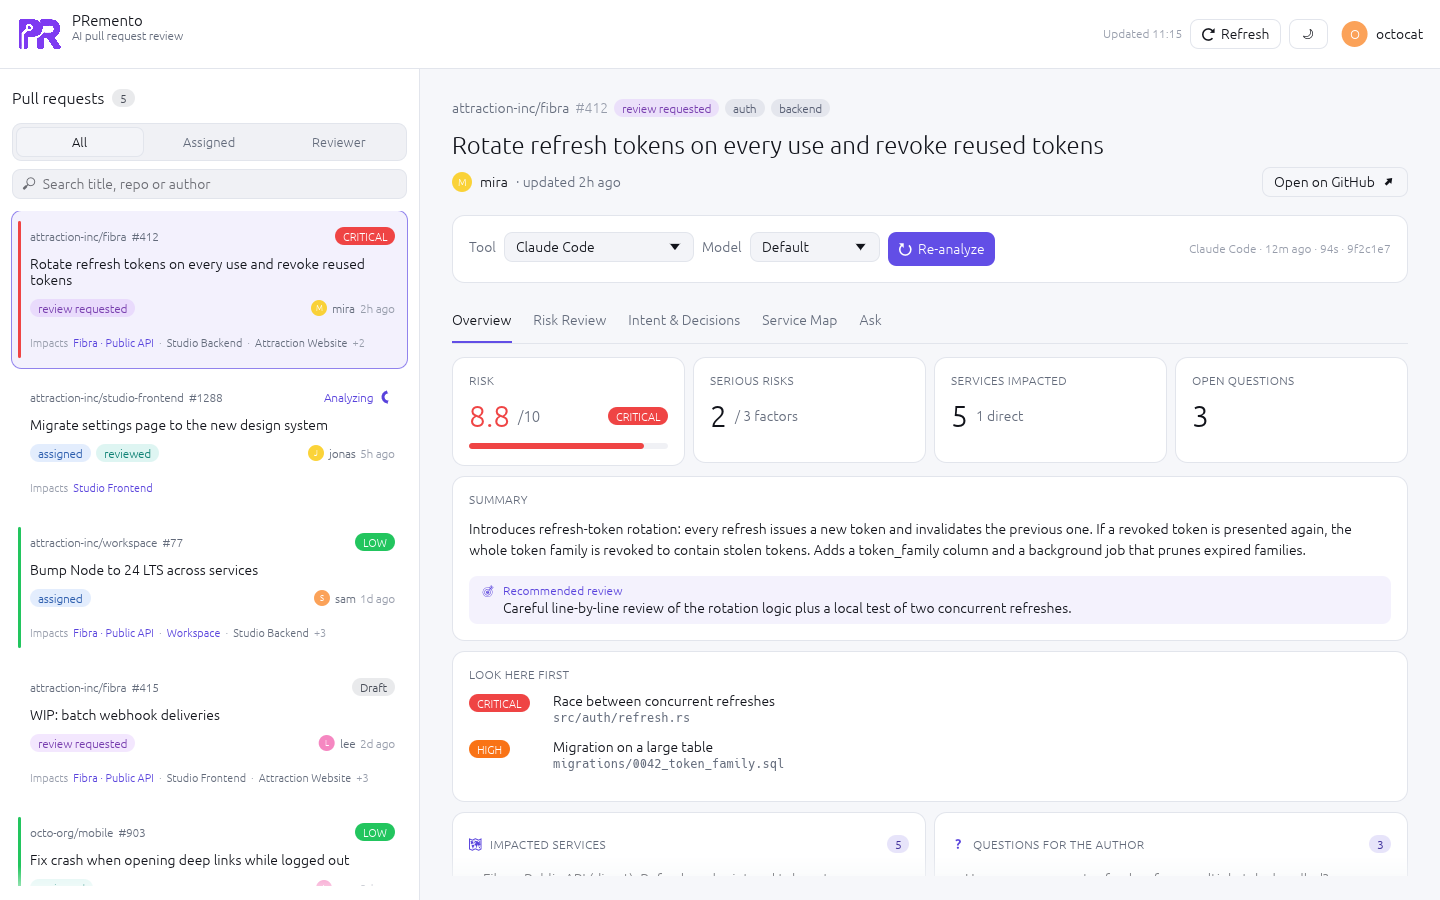
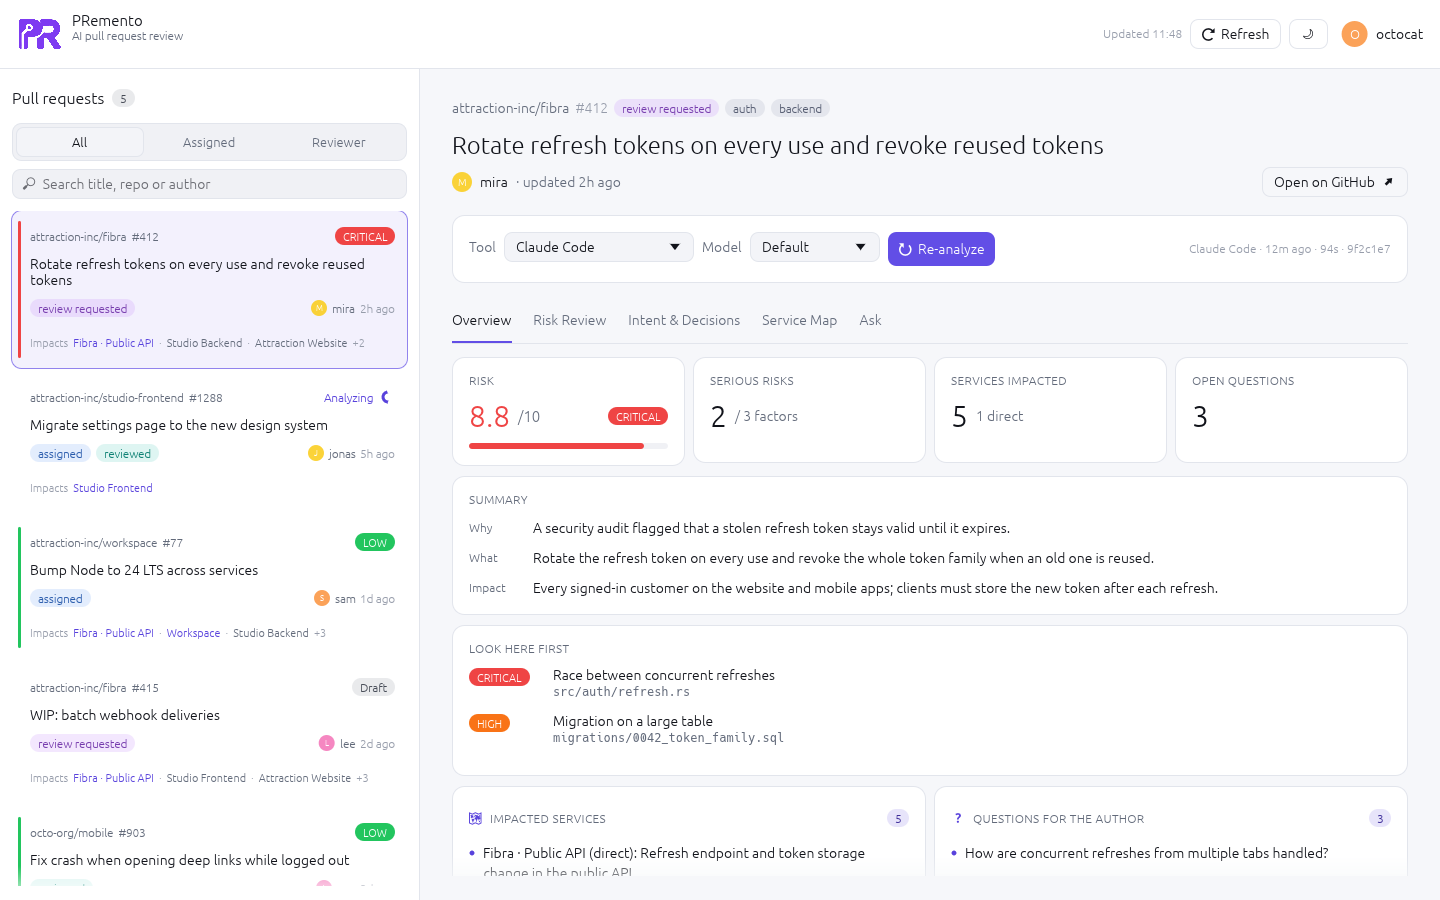
chore: update 14 files
- modify README.md (+2 -2)
- modify screenshots/intent.png
- modify screenshots/overview-dark.png
- modify screenshots/overview-light.png
- modify screenshots/risk-review.png
- modify app/demo_analysis.json (+9 -10)
- modify analysis/model.rs (+20 -3)
- modify analysis/prompt.rs (+32 -18)
- modify views/overview.rs (+16 -6)
- modify views/risk.rs (+35 -43)
- modify ask/session.rs (+1 -1)
- modify service_map/graph.rs (+7 -0)
- … and 2 more

diff --git a/src/features/analysis/prompt.rs b/src/features/analysis/prompt.rs
@@ -5,45 +5,46 @@ use anyhow::{Context, Result, anyhow};
 use super::model::Analysis;
 
 const SCHEMA_CORE: &str = r#"{
-  "summary": "2-4 sentence plain-language summary of what this PR does",
+  "brief": {
+    "why": "one sentence, max 25 words: the context or problem that motivates this PR",
+    "what": "one sentence, max 25 words: the decision taken, i.e. what the PR changes",
+    "impact": "one sentence, max 25 words: who or what is affected by the change"
+  },
   "risk": {
     "complexity": {
       "score": 0-10,
-      "reason": "how hard this change is to get right: size, logic, concurrency, state, migrations, number of moving parts"
+      "reason": "max 20 words: how hard this change is to get right"
     },
     "worst_case": {
       "tier": "cosmetic | feature | core_flow | system_wide",
-      "scenario": "the realistic worst thing that happens if this PR has a bug"
+      "scenario": "max 20 words: the realistic worst thing that happens if this PR has a bug"
     },
     "audience": {
       "facing": "customer | partner | internal | developer",
-      "reason": "who uses the code this PR changes"
+      "reason": "max 20 words: who uses the code this PR changes"
     },
-    "rationale": "why this overall risk, in terms of the three dimensions above",
-    "recommended_review_depth": "e.g. 'quick skim', 'careful line-by-line', 'needs domain expert + tests run locally'",
     "factors": [
       {
         "area": "short name of the risk (e.g. 'auth token handling')",
-        "severity": "low | medium | high | critical",
-        "description": "what could go wrong and why",
-        "files": ["paths involved"],
-        "mitigation": "what the reviewer should verify or ask for"
+        "severity": "medium | high | critical",
+        "description": "one sentence, max 25 words: what could go wrong",
+        "files": ["paths involved"]
       }
     ]
   },
   "intent": {
-    "stated_intent": "what the author says the PR does (from title/description/commits)",
-    "inferred_intent": "what the code actually appears to do",
-    "alignment": "does the code match the stated intent? call out scope creep, missing pieces or unrelated changes",
+    "stated_intent": "one sentence: what the author says the PR does (from title/description/commits)",
+    "inferred_intent": "one sentence: what the code actually appears to do",
+    "alignment": "one sentence: does the code match the stated intent? name any scope creep or missing piece",
     "decisions": [
       {
         "decision": "a design/implementation choice made in this PR",
-        "rationale": "why it was made (quote the source if explicit, otherwise say it is inferred)",
-        "alternatives": "plausible alternatives that were not chosen",
+        "rationale": "one short sentence: why it was made (say if inferred)",
+        "alternatives": "one short sentence: plausible alternatives not chosen",
         "source": "description | commit | discussion | code (inferred)"
       }
     ],
-    "open_questions": ["questions the reviewer should ask the author"]
+    "open_questions": ["one line: a question that would clarify the context or the decision"]
   },"#;
 
 const SCHEMA_IMPACT: &str = r#"
@@ -90,9 +91,10 @@ downstream consumers, data, security, performance, tests).",
         ),
     };
     format!(
-        "You are a senior staff engineer helping a teammate review a GitHub pull request.\n\
+        "You are a senior staff engineer helping a teammate quickly understand a GitHub pull request: \
+why it exists, what it decides and what it affects. This is not a code review.\n\
 Produce three analyses of the PR below:\n\
-1. Risk-Based Review: how risky is this change, which areas carry the risk, and how deep the review must be.\n\
+1. Risk: how risky is this change and which areas carry the risk.\n\
 2. Intent & Decision Log: what the PR is meant to do, whether the code matches, and the design decisions made (with rationale and alternatives).\n\
 {impact_task}\n\n\
 Rate the risk on three dimensions (the app computes the overall score from them, do not return one):\n\
@@ -105,6 +107,8 @@ can reach, not by the size of the diff: a one-line change to auth middleware is 
 - audience.facing: who is exposed. `customer` = end customers or public users; `partner` = B2B partners, distributors \
 or public API consumers; `internal` = admin, back-office or staff-only tools; `developer` = CI, build, tests, docs or \
 dev tooling only. If several apply, pick the most exposed one.\n\n\
+Be terse: short sentences, no filler, never restate the same point in several fields, respect the word limits. \
+List at most 3 risk factors (medium severity or above), 4 decisions and 3 open questions; fewer is fine.\n\
 Be specific and grounded in the diff; reference file paths and function names. Do not invent facts — if something is inferred, say so. \
 Do not run tools or modify files; everything you need is below.\n\n\
 Respond with ONLY a single JSON object (no markdown fences, no prose before or after) matching this shape:\n\
@@ -138,6 +142,16 @@ mod tests {
         let a = parse(raw).unwrap();
         assert_eq!(a.risk.level, "high");
         assert!(a.impact.breaking_changes.is_empty());
+    }
+
+    #[test]
+    fn parses_legacy_analysis_with_summary() {
+        let raw = r#"{"summary":"old","risk":{"rationale":"r","recommended_review_depth":"skim",
+            "factors":[{"area":"a","severity":"high","mitigation":"m"}]}}"#;
+        let a = parse(raw).unwrap();
+        assert_eq!(a.summary, "old");
+        assert!(a.brief.is_empty());
+        assert_eq!(a.risk.factors.len(), 1);
     }
 
     #[test]

diff --git a/src/features/analysis/views/risk.rs b/src/features/analysis/views/risk.rs
@@ -4,30 +4,19 @@ use eframe::egui::{self, Align, Layout, RichText};
 
 use crate::core::format::humanize;
 use crate::features::analysis::{Analysis, RiskReview, scoring};
-use crate::ui::blocks::{callout, code_chip};
+use crate::ui::blocks::code_chip;
 use crate::ui::theme::{pal, severity_color, severity_rank};
 use crate::ui::widgets::{accent_card, body, card, meter, muted, pill, section_title, solid_pill};
 
 pub fn risk(ui: &mut egui::Ui, a: &Analysis) {
     let p = pal(ui);
-    let c = severity_color(&a.risk.level);
     card(ui, |ui| {
-        ui.horizontal(|ui| {
-            solid_pill(ui, format!("{} RISK", a.risk.level.to_uppercase()), c);
-            ui.label(RichText::new(format!("{:.1}/10", a.risk.score)).size(18.0).strong().color(c));
-            meter(ui, a.risk.score / 10.0, c, 160.0);
-        });
-        ui.add_space(4.0);
-        body(ui, &a.risk.rationale);
-        if !a.risk.recommended_review_depth.is_empty() {
-            ui.add_space(4.0);
-            callout(ui, "🎯", "Recommended review", &a.risk.recommended_review_depth);
+        score_header(ui, &a.risk);
+        if a.risk.has_breakdown() {
+            ui.add_space(6.0);
+            risk_breakdown(ui, &a.risk);
         }
     });
-
-    if a.risk.has_breakdown() {
-        risk_breakdown(ui, &a.risk);
-    }
 
     ui.add_space(4.0);
     section_title(ui, &format!("Risk factors · {}", a.risk.factors.len()));
@@ -53,11 +42,17 @@ pub fn risk(ui: &mut egui::Ui, a: &Analysis) {
                     }
                 });
             }
-            if !f.mitigation.is_empty() {
-                callout(ui, "✔", "Verify", &f.mitigation);
-            }
         });
     }
+}
+
+fn score_header(ui: &mut egui::Ui, r: &RiskReview) {
+    let c = severity_color(&r.level);
+    ui.horizontal(|ui| {
+        solid_pill(ui, format!("{} RISK", r.level.to_uppercase()), c);
+        ui.label(RichText::new(format!("{:.1}/10", r.score)).size(18.0).strong().color(c));
+        meter(ui, r.score / 10.0, c, 160.0);
+    });
 }
 
 /// The three dimensions the risk score is computed from.
@@ -71,29 +66,26 @@ fn risk_breakdown(ui: &mut egui::Ui, r: &RiskReview) {
         ("Worst case", humanize(&r.worst_case.tier), impact, r.worst_case.scenario.as_str()),
         ("Audience", format!("{}-facing", humanize(&r.audience.facing)), exposure, r.audience.reason.as_str()),
     ];
-    card(ui, |ui| {
-        section_title(ui, "How the score is computed");
-        for (label, value, level, reason) in rows {
-            let c = severity_color(scoring::level_for(level));
-            ui.horizontal_top(|ui| {
-                ui.vertical(|ui| {
-                    ui.set_width(150.0);
-                    ui.spacing_mut().item_spacing.y = 4.0;
-                    ui.label(RichText::new(label).size(12.0).strong().color(p.muted));
-                    pill(ui, value, c);
-                    meter(ui, level / 10.0, c, 120.0);
-                });
-                ui.add(egui::Label::new(RichText::new(reason).color(p.text).line_height(Some(20.0))).wrap());
+    for (label, value, level, reason) in rows {
+        let c = severity_color(scoring::level_for(level));
+        ui.horizontal_top(|ui| {
+            ui.vertical(|ui| {
+                ui.set_width(150.0);
+                ui.spacing_mut().item_spacing.y = 3.0;
+                ui.label(RichText::new(label).size(12.0).strong().color(p.muted));
+                pill(ui, value, c);
+                meter(ui, level / 10.0, c, 120.0);
             });
-            ui.add_space(6.0);
-        }
-        ui.label(muted(
-            ui,
-            format!(
-                "Score = worst case × audience × ({:.1} + {:.1} × complexity / 10)",
-                scoring::BASE_LIKELIHOOD,
-                1.0 - scoring::BASE_LIKELIHOOD
-            ),
-        ).size(12.0));
-    });
+            ui.add(egui::Label::new(RichText::new(reason).color(p.text).line_height(Some(20.0))).wrap());
+        });
+        ui.add_space(2.0);
+    }
+    ui.label(muted(
+        ui,
+        format!(
+            "Score = worst case × audience × ({:.1} + {:.1} × complexity / 10)",
+            scoring::BASE_LIKELIHOOD,
+            1.0 - scoring::BASE_LIKELIHOOD
+        ),
+    ).size(12.0));
 }

diff --git a/src/features/analysis/views/overview.rs b/src/features/analysis/views/overview.rs
@@ -1,10 +1,10 @@
-//! Overview tab: headline numbers, summary and the riskiest areas.
+//! Overview tab: headline numbers, why/what/impact and the riskiest areas.
 
 use eframe::egui::{self, Align, Layout, RichText, vec2};
 
 use crate::features::analysis::Analysis;
 use crate::features::service_map;
-use crate::ui::blocks::{big_number, callout, list_card, stat_tile};
+use crate::ui::blocks::{big_number, list_card, stat_tile};
 use crate::ui::theme::{pal, severity_color, severity_rank};
 use crate::ui::widgets::{body, card, meter, muted, section_title, solid_pill};
 
@@ -57,10 +57,20 @@ pub fn overview(ui: &mut egui::Ui, a: &Analysis, repo: &str) {
 
     card(ui, |ui| {
         section_title(ui, "Summary");
-        body(ui, &a.summary);
-        if !a.risk.recommended_review_depth.is_empty() {
-            ui.add_space(6.0);
-            callout(ui, "🎯", "Recommended review", &a.risk.recommended_review_depth);
+        if a.brief.is_empty() {
+            body(ui, &a.summary);
+        } else {
+            for (label, text) in [("Why", &a.brief.why), ("What", &a.brief.what), ("Impact", &a.brief.impact)] {
+                if !text.is_empty() {
+                    ui.horizontal_top(|ui| {
+                        ui.allocate_ui_with_layout(vec2(56.0, 20.0), Layout::left_to_right(Align::Center), |ui| {
+                            ui.set_min_width(56.0);
+                            ui.label(RichText::new(label).size(12.0).strong().color(p.muted));
+                        });
+                        ui.add(egui::Label::new(RichText::new(text).color(p.text).line_height(Some(20.0))).wrap());
+                    });
+                }
+            }
         }
     });
 

diff --git a/src/features/analysis/model.rs b/src/features/analysis/model.rs
@@ -5,6 +5,9 @@ use serde::{Deserialize, Serialize};
 #[derive(Debug, Clone, Default, Serialize, Deserialize)]
 #[serde(default)]
 pub struct Analysis {
+    /// Why / what / impact, one line each.
+    pub brief: Brief,
+    /// Free-text summary from analyses made before `brief` existed; shown as a fallback.
     pub summary: String,
     pub risk: RiskReview,
     pub intent: IntentLog,
@@ -12,6 +15,23 @@ pub struct Analysis {
     pub impact: ImpactAnalysis,
     /// Impact on the attraction-inc service map (attraction-inc PRs).
     pub service_impact: Vec<ServiceImpact>,
+}
+
+#[derive(Debug, Clone, Default, Serialize, Deserialize)]
+#[serde(default)]
+pub struct Brief {
+    /// The context or problem behind the PR.
+    pub why: String,
+    /// The decision taken: what the PR changes.
+    pub what: String,
+    /// Who or what is affected.
+    pub impact: String,
+}
+
+impl Brief {
+    pub fn is_empty(&self) -> bool {
+        self.why.is_empty() && self.what.is_empty() && self.impact.is_empty()
+    }
 }
 
 #[derive(Debug, Clone, Default, Serialize, Deserialize)]
@@ -32,8 +52,6 @@ pub struct RiskReview {
     pub level: String,
     #[serde(deserialize_with = "lenient_number")]
     pub score: f32,
-    pub rationale: String,
-    pub recommended_review_depth: String,
     pub complexity: Complexity,
     pub worst_case: WorstCase,
     pub audience: Audience,
@@ -74,7 +92,6 @@ pub struct RiskFactor {
     pub severity: String,
     pub description: String,
     pub files: Vec<String>,
-    pub mitigation: String,
 }
 
 #[derive(Debug, Clone, Default, Serialize, Deserialize)]

diff --git a/src/ui/blocks.rs b/src/ui/blocks.rs
@@ -1,4 +1,4 @@
-//! Larger building blocks composed from the widgets: stat tiles, list cards, callouts, banners.
+//! Larger building blocks composed from the widgets: stat tiles, list cards, banners.
 
 use eframe::egui::{
     self, Align, Color32, CornerRadius, Layout, Margin, RichText, Sense, Stroke, pos2, vec2,
@@ -52,25 +52,6 @@ pub fn list_card(ui: &mut egui::Ui, icon: &str, title: &str, items: &[String], c
             });
         }
     });
-}
-
-pub fn callout(ui: &mut egui::Ui, icon: &str, title: &str, text: &str) {
-    let p = pal(ui);
-    egui::Frame::new()
-        .fill(p.accent.gamma_multiply(if ui.visuals().dark_mode { 0.12 } else { 0.07 }))
-        .corner_radius(CornerRadius::same(8))
-        .inner_margin(Margin::symmetric(12, 8))
-        .show(ui, |ui| {
-            ui.set_width(ui.available_width());
-            ui.horizontal_top(|ui| {
-                ui.label(RichText::new(icon).color(p.accent_text));
-                ui.vertical(|ui| {
-                    ui.spacing_mut().item_spacing.y = 2.0;
-                    ui.label(RichText::new(title).size(12.0).strong().color(p.accent_text));
-                    ui.add(egui::Label::new(RichText::new(text).color(p.text)).wrap());
-                });
-            });
-        });
 }
 
 pub fn code_chip(ui: &mut egui::Ui, text: &str) {

diff --git a/src/features/service_map/impact.rs b/src/features/service_map/impact.rs
@@ -1,6 +1,6 @@
 //! Which services a PR impacts, and the service map as LLM prompt text.
 
-use super::graph::{EDGES, NODES, Node, ORG};
+use super::graph::{AUDIENCE_NOTES, EDGES, NODES, Node, ORG};
 use crate::features::analysis::ServiceImpact;
 
 pub fn applies(repo: &str) -> bool {
@@ -95,6 +95,10 @@ pub fn prompt_section(repo: &str) -> String {
     s.push_str("\nCONNECTIONS (caller -> callee: what)\n");
     for e in EDGES {
         s.push_str(&format!("- {} -> {}: {}\n", e.from, e.to, e.label));
+    }
+    s.push_str("\nAUDIENCE (use for audience.facing)\n");
+    for note in AUDIENCE_NOTES {
+        s.push_str(&format!("- {note}\n"));
     }
     let own: Vec<&str> = nodes_for_repo(repo).iter().map(|n| n.id).collect();
     s.push_str(&format!(

diff --git a/src/features/service_map/graph.rs b/src/features/service_map/graph.rs
@@ -87,6 +87,13 @@ pub const NODES: &[Node] = &[
         description: "Playwright smoke tests against deployed Studios (staging & prod)" },
 ];
 
+/// Who is exposed to each part of the system; guides the LLM's `audience.facing` rating.
+pub const AUDIENCE_NOTES: &[&str] = &[
+    "Studio (frontend + backend) runs one tenant per brand. The Jameo tenant is used by clients (customer-facing). \
+The Attraction tenant is only available to Attraction admins and staff, never to clients: a change that only \
+affects the Attraction tenant is `internal`.",
+];
+
 pub const EDGES: &[Edge] = &[
     // Studio frontend
     Edge { from: "frontend", to: "backend", label: "API, session" },

diff --git a/src/features/ask/session.rs b/src/features/ask/session.rs
@@ -129,7 +129,7 @@ review.json may be out of date.\n",
 {url}\n\n\
 You are helping a teammate review this pull request. Files in this folder:\n\n\
 - `pr.md`: title, description, labels, commits, changed files, discussion and diff (the diff may be truncated).\n\
-- `review.json`: an AI review made with {provider}: summary, risk (score, complexity, worst case, audience, \
+- `review.json`: an AI review made with {provider}: brief (why, what, impact), risk (score, complexity, worst case, audience, \
 factors), intent and design decisions, and impact.\n\
 {stale}\n\
 Answer questions about this PR. Ground answers in the diff and cite file paths and functions. Say when \

diff --git a/README.md b/README.md
@@ -45,11 +45,11 @@ Claude Code, Codex, Gemini CLI, Ollama, or any other command.
 
 ## Features
 
-Each analysis opens on an **Overview** tab that sums up the tabs below.
+Each analysis opens on an **Overview** tab: why the PR exists, what it decides and what it affects, one line each, plus the headline numbers from the tabs below.
 
 | Tab | What you get |
 |---|---|
-| **Risk Review** | A [risk score](#risk-score) computed from complexity, worst case and audience, how deep to review, and risk factors with severity, files and what to verify |
+| **Risk Review** | A [risk score](#risk-score) computed from complexity, worst case and audience, and up to three risk factors with severity and files |
 | **Intent & Decisions** | What the PR says it does vs. what the code actually does, whether they match, the design decisions taken (why, alternatives, source) and questions to ask the author |
 | **Service Map** (attraction-inc PRs) | The attraction-inc architecture as a map, with each impacted service highlighted as **direct** (its code or config changes) or **indirect** (affected through a connection), colored by severity |
 | **Impact Analysis** (other repos) | Affected components, breaking changes, downstream effects, data/migrations, security, performance, test coverage and suggested tests |
